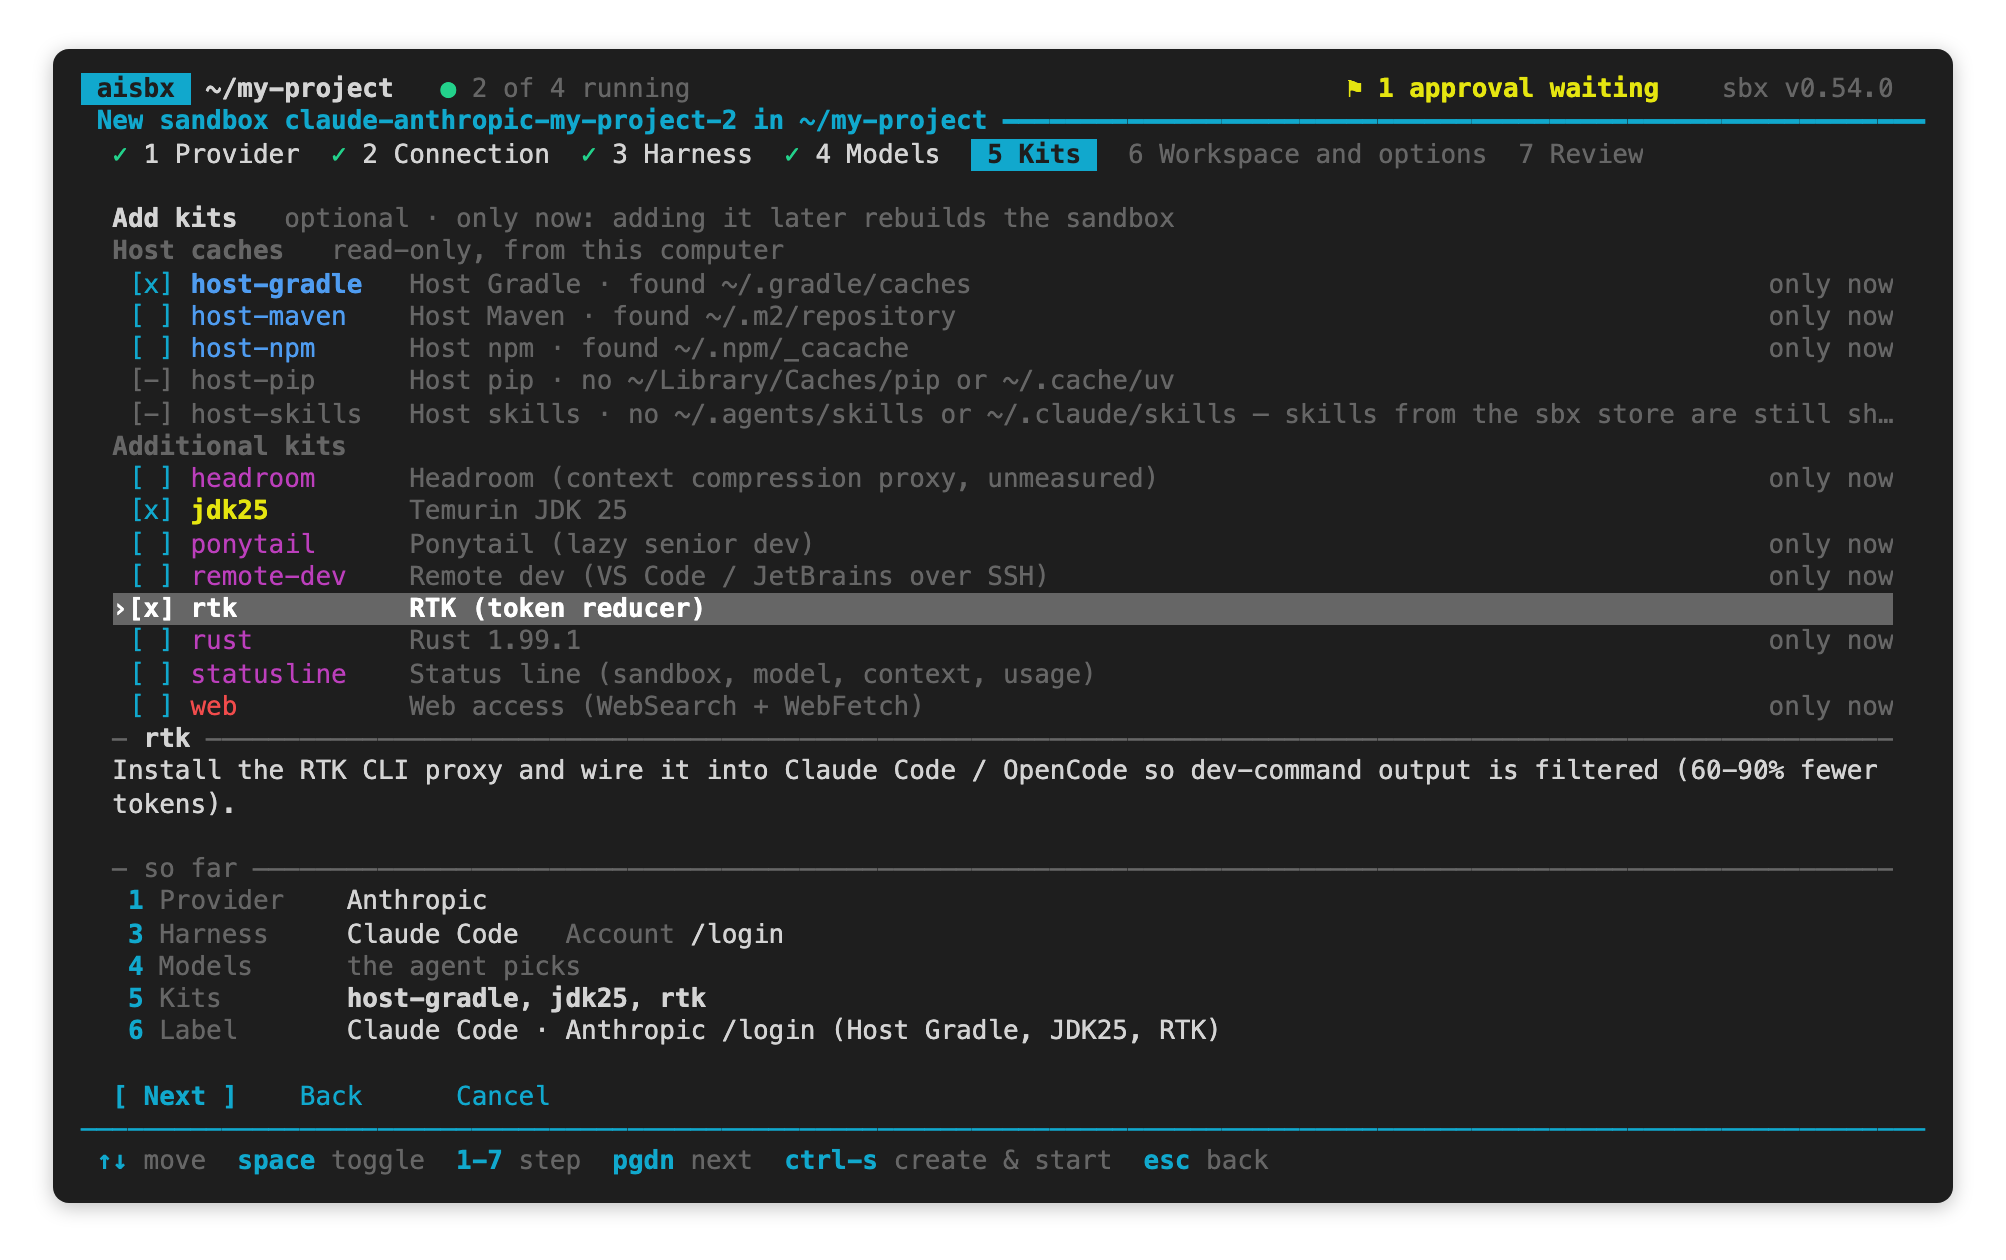
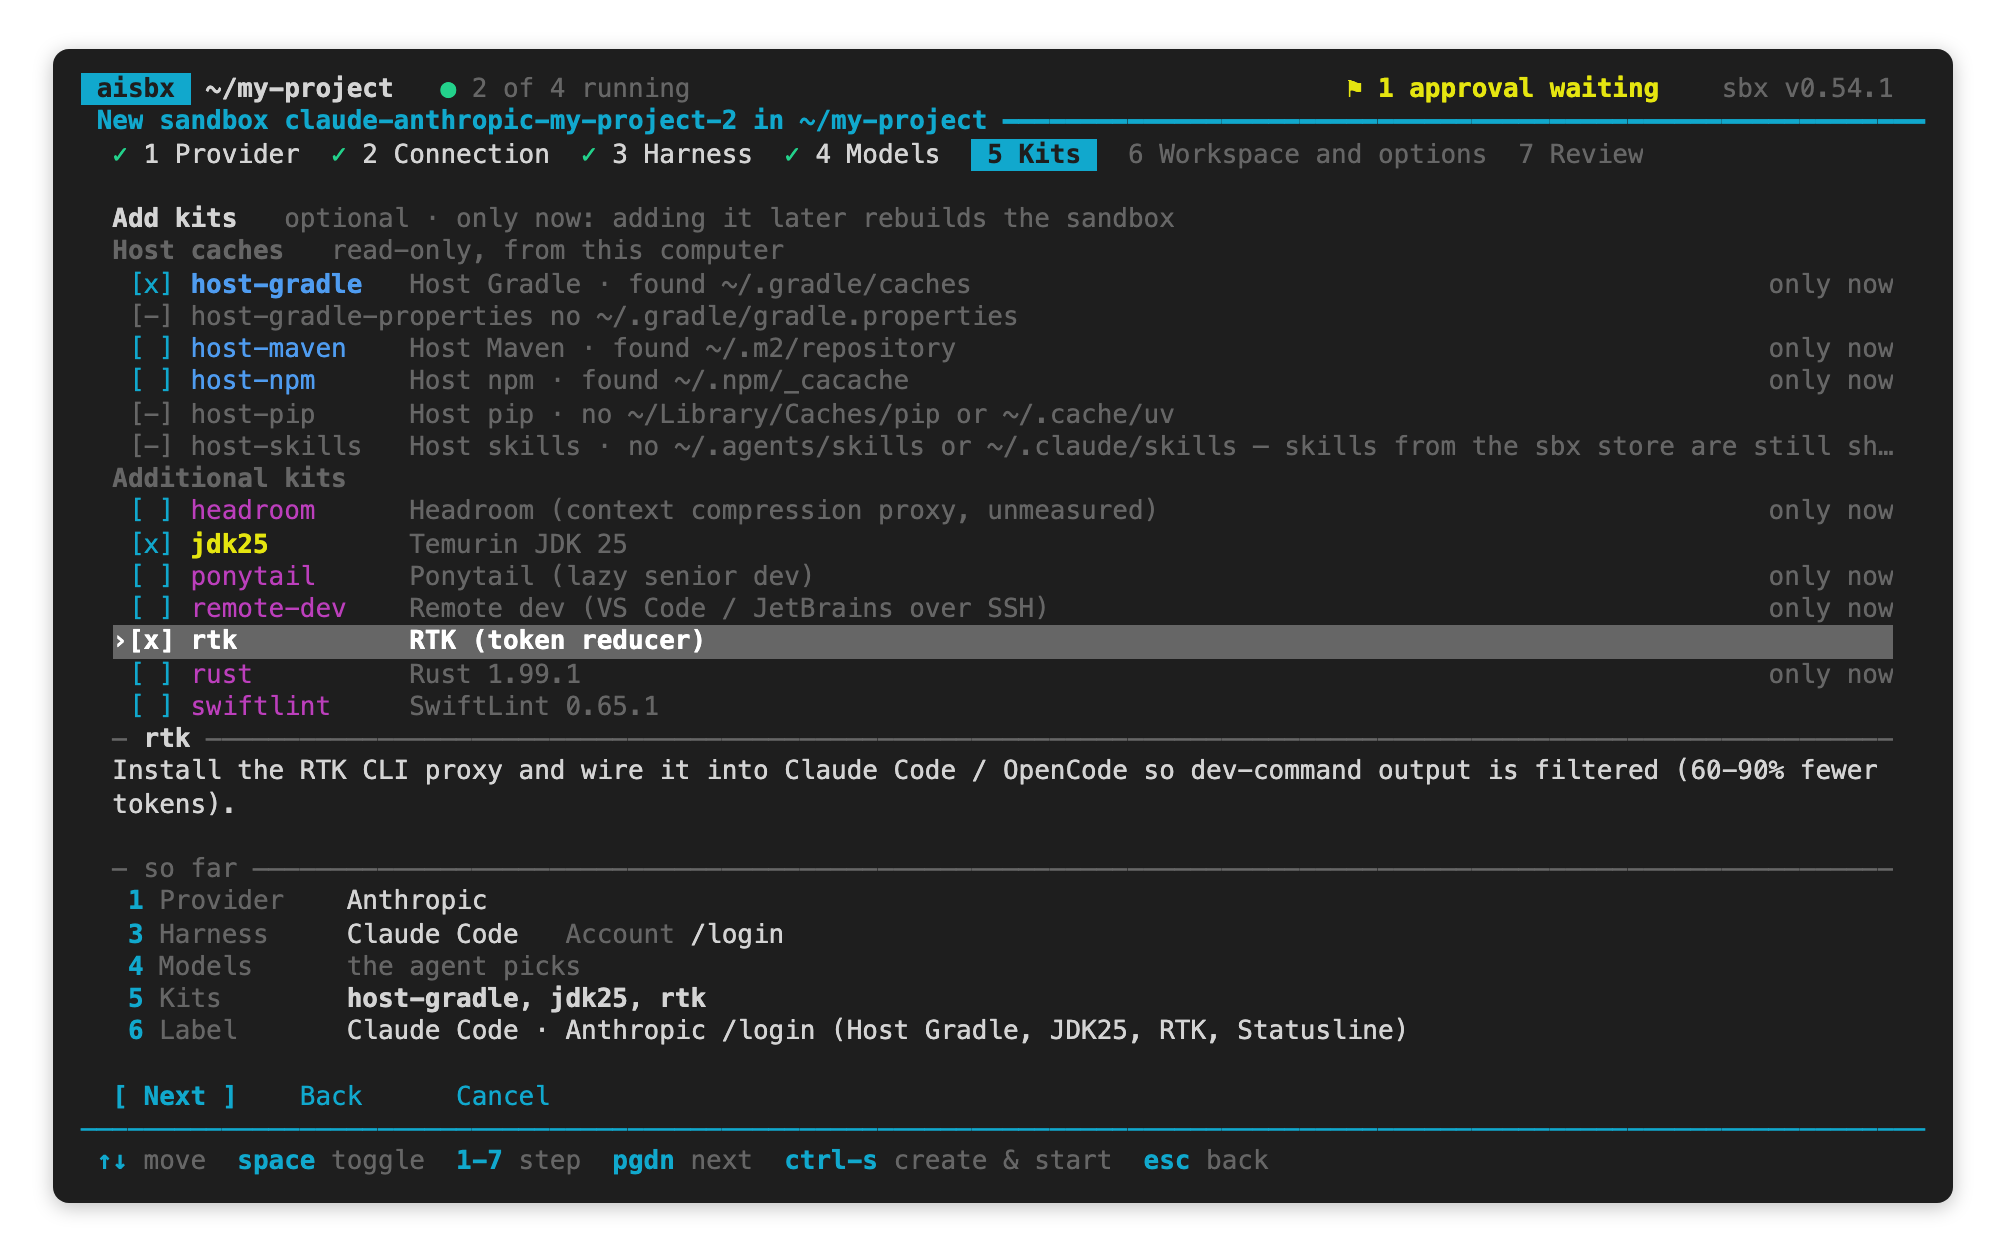
Upgrade aisbx to sbx 0.54.1: require sbx 0.54.1, drop the keychain -25244 hint because sbx now removes secrets that an older sbx saved, and retake the TUI screenshots. The deprecations page now says that aisbx moves to each new sbx release. (#41)

Changed region(s): [[0.0309, 0.2476, 0.9581, 0.5881], [0.6491, 0.2786, 0.9581, 0.4333], [0.6181, 0.8048, 0.7109, 0.8357]]

diff --git a/core/src/sbx.rs b/core/src/sbx.rs
@@ -12,7 +12,7 @@ use serde::{Deserialize, Serialize};
 use crate::state::Registry;
 
 /// The oldest sbx release the dashboard accepts. docs/development.md, *sbx version*, says why.
-pub const REQUIRED_VERSION: &str = "0.54.0";
+pub const REQUIRED_VERSION: &str = "0.54.1";
 
 /// How a sandbox mounts the host's shared agent-skills store (`--skills`). sbx reports the mode
 /// nowhere, so a rebuild repeats it from the registry; see [`crate::state::Entry`].
@@ -748,7 +748,7 @@ struct VersionClient {
     version: String,
 }
 
-/// The CLI's own version, `v0.53.0`, from `sbx version --json`.
+/// The CLI's own version, `v0.54.1`, from `sbx version --json`.
 pub fn version() -> Result<String> {
     let out = Command::new("sbx")
         .args(["version", "--json"])
@@ -3046,29 +3046,6 @@ pub fn secret_rm_litellm_key_argv(placeholder: &str) -> Vec<String> {
     ]
 }
 
-fn contains_standalone_25244(output: &str) -> bool {
-    const CODE: &str = "-25244";
-    output.match_indices(CODE).any(|(at, _)| {
-        let before = output[..at].chars().next_back();
-        let after = output[at + CODE.len()..].chars().next();
-        !before.is_some_and(|c| c.is_alphanumeric() || c == '-' || c == '_')
-            && !after.is_some_and(|c| c.is_ascii_digit())
-    })
-}
-
-pub fn secret_rm_keychain_owner_hint(output: &str) -> Option<&'static str> {
-    if contains_standalone_25244(output)
-        || output.contains("An invalid attempt to change the owner of an item")
-    {
-        Some(
-            "Cause: the macOS keychain item belongs to another owner or has another access setting, so sbx cannot delete it.\n\
-             Workaround: open Keychain Access and search for the item this command removes: the placeholder shown above for a token or a key, or the service name (and sandbox) in the command for a service secret. Delete that item, then close this log, or press F5 or Ctrl+R in Stored secrets, to refresh the list.",
-        )
-    } else {
-        None
-    }
-}
-
 /// Drop a named token from the host, and with it the account every sandbox pointed at that name
 /// was using. Only ever reached from the secrets screen: deleting a *sandbox* never touches a
 /// shared token.
@@ -3664,30 +3641,6 @@ mod tests {
     }
 
     #[test]
-    fn the_keychain_owner_error_gets_a_hint() {
-        let line =
-            "error: delete custom secret: An invalid attempt to change the owner of an item. (-25244)";
-        assert!(secret_rm_keychain_owner_hint(line).is_some());
-        assert!(secret_rm_keychain_owner_hint("failed (-25244)").is_some());
-        assert!(secret_rm_keychain_owner_hint("OSStatus: -25244").is_some());
-        assert!(secret_rm_keychain_owner_hint("-25244").is_some());
-        assert_eq!(
-            secret_rm_keychain_owner_hint("sbx-cs-aisbx-llm-conn-25244"),
-            None
-        );
-        assert_eq!(secret_rm_keychain_owner_hint("-252440"), None);
-        let message = "An invalid attempt to change the owner of an item";
-        assert!(secret_rm_keychain_owner_hint(message).is_some());
-        let hint = secret_rm_keychain_owner_hint(line).unwrap();
-        assert!(hint.contains("Keychain Access"), "{hint}");
-        assert!(hint.contains("service name"), "{hint}");
-        assert_eq!(secret_rm_keychain_owner_hint("error: no such secret"), None);
-        let table = "(global)   host   -   sbx-cs-aisbx-llm-conn-25244   key";
-        assert_eq!(secret_rm_keychain_owner_hint(table), None);
-        assert_eq!(secret_rm_keychain_owner_hint(""), None);
-    }
-
-    #[test]
     fn every_sbx_call_gets_no_telemetry_unless_a_value_is_set() {
         assert_eq!(NO_TELEMETRY_ENV, "SBX_NO_TELEMETRY");
         assert_eq!(no_telemetry_value(None), Some("1"));
@@ -4058,23 +4011,27 @@ mod tests {
 
     #[test]
     fn the_gate_names_the_version_it_refuses() {
-        assert_eq!(gate("v0.54.0".into()).unwrap(), "v0.54.0");
-        assert!(gate("v0.53.0".into()).is_err());
-        let err = gate("v0.53.0".into()).unwrap_err().to_string();
+        assert_eq!(gate("v0.54.1".into()).unwrap(), "v0.54.1");
+        assert!(gate("v0.54.0".into()).is_err());
+        let err = gate("v0.54.0".into()).unwrap_err().to_string();
         assert!(
-            err.starts_with("this sbx is v0.53.0, but this dashboard needs 0.54.0+ — "),
+            err.starts_with("this sbx is v0.54.0, but this dashboard needs 0.54.1+ — "),
             "{err}"
         );
     }
 
     #[test]
-    fn version_gate_accepts_0540_and_newer() {
-        assert!(meets_required_version("v0.54.0"));
-        assert!(meets_required_version("0.54.0"));
-        assert!(meets_required_version("v0.54.0-rc1"));
+    fn version_gate_accepts_0541_and_newer() {
         assert!(meets_required_version("v0.54.1"));
+        assert!(meets_required_version("0.54.1"));
+        assert!(meets_required_version("v0.54.1-rc1"));
+        assert!(meets_required_version("v0.54.2"));
         assert!(meets_required_version("v0.55.0"));
         assert!(meets_required_version("v1.0.0"));
+        assert!(!meets_required_version("v0.54.0"));
+        assert!(!meets_required_version("0.54.0"));
+        assert!(!meets_required_version("v0.54.0-rc1"));
+        assert!(!meets_required_version("v0.54"));
         assert!(!meets_required_version("v0.53.9"));
         assert!(!meets_required_version("v0.53.1"));
         assert!(!meets_required_version("v0.53.0"));

diff --git a/core/src/job.rs b/core/src/job.rs
@@ -185,7 +185,7 @@ impl Job {
                 records.lock().unwrap()[i].started = Some(Instant::now());
                 let failure = match run_step(&step, &records, i) {
                     Ok(exit) if exit.success() => None,
-                    Ok(exit) => Some(failure_text(&step, &records, i, exit)),
+                    Ok(exit) => Some(format!("{} failed ({})", step.label, exit_reason(exit))),
                     Err(e) => {
                         push(&records, i, format!("error: {e}"));
                         Some(e)
@@ -433,21 +433,6 @@ fn pump<R: Read>(reader: R, records: &Records, index: usize) {
     }
 }
 
-fn is_secret_rm(argv: &[String]) -> bool {
-    matches!(argv, [sbx, secret, rm, ..] if sbx == "sbx" && secret == "secret" && rm == "rm")
-}
-
-fn failure_text(step: &Step, records: &Records, index: usize, exit: ExitStatus) -> String {
-    if is_secret_rm(&step.argv) {
-        let mut guard = records.lock().unwrap();
-        let output = &mut guard[index].output;
-        if let Some(hint) = crate::sbx::secret_rm_keychain_owner_hint(&output.join("\n")) {
-            output.extend(hint.lines().map(String::from));
-        }
-    }
-    format!("{} failed ({})", step.label, exit_reason(exit))
-}
-
 fn push(records: &Records, index: usize, line: String) {
     let mut guard = records.lock().unwrap();
     let output = &mut guard[index].output;
@@ -523,83 +508,6 @@ mod tests {
             thread::sleep(Duration::from_millis(10));
         }
         panic!("the job did not finish");
-    }
-
-    const KEYCHAIN_LINE: &str =
-        "error: delete custom secret: An invalid attempt to change the owner of an item. (-25244)";
-
-    #[cfg(unix)]
-    fn failed_exit() -> ExitStatus {
-        Command::new("sh").args(["-c", "exit 1"]).status().unwrap()
-    }
-
-    #[cfg(unix)]
-    fn failure_of(argv: Vec<String>, output: &[&str], exit: ExitStatus) -> (String, Vec<String>) {
-        let step = Step::new("rm", argv);
-        let records: Records = Arc::new(Mutex::new(vec![Record::of(&step)]));
-        records.lock().unwrap()[0].output = output.iter().map(|l| l.to_string()).collect();
-        let text = failure_text(&step, &records, 0, exit);
-        let out = records.lock().unwrap()[0].output.clone();
-        (text, out)
-    }
-
-    #[test]
-    #[cfg(unix)]
-    fn a_failed_secret_rm_gets_the_hint_after_the_raw_lines_and_keeps_its_status() {
-        let placeholder = "sbx-cs-aisbx-llm-x";
-        let table = format!("(global)   host   -   {placeholder}   key");
-        let argv = crate::sbx::secret_rm_litellm_key_argv(placeholder);
-        let (text, out) = failure_of(argv, &[&table, KEYCHAIN_LINE], failed_exit());
-        assert_eq!(text, "rm failed (exit code 1)");
-        assert_eq!(out[0], table);
-        assert_eq!(out[1], KEYCHAIN_LINE);
-        assert!(out[2].starts_with("Cause:"), "{out:?}");
-        assert!(out.iter().any(|l| l.contains("Keychain Access")), "{out:?}");
-
-        let argv = crate::sbx::secret_rm_service_argv(Some("box"), "github");
-        let (text, out) = failure_of(argv, &[KEYCHAIN_LINE], failed_exit());
-        assert_eq!(text, "rm failed (exit code 1)");
-        assert_eq!(out[0], KEYCHAIN_LINE);
-        assert!(out[1].starts_with("Cause:"), "{out:?}");
-    }
-
-    #[test]
-    #[cfg(unix)]
-    fn no_hint_without_the_command_the_marker_or_a_failure() {
-        let argv = crate::sbx::secret_rm_litellm_key_argv("sbx-cs-aisbx-llm-x");
-        let (text, out) = failure_of(argv.clone(), &["error: other"], failed_exit());
-        assert_eq!((text.as_str(), out.len()), ("rm failed (exit code 1)", 1));
-        let table = "(global)   host   -   sbx-cs-aisbx-llm-x-25244   key";
-        let (_, out) = failure_of(argv, &[table, "error: other"], failed_exit());
-        assert_eq!(out.len(), 2);
-        let other: Vec<String> = ["sbx", "rm", "x"].map(String::from).to_vec();
-        let (text, out) = failure_of(other, &[KEYCHAIN_LINE], failed_exit());
-        assert_eq!((text.as_str(), out.len()), ("rm failed (exit code 1)", 1));
-        let (_, out) = failure_of(Vec::new(), &[KEYCHAIN_LINE], failed_exit());
-        assert_eq!(out.len(), 1);
-    }
-
-    #[test]
-    #[cfg(unix)]
-    fn the_hint_leaves_a_full_log_alone() {
-        let argv = crate::sbx::secret_rm_litellm_key_argv("sbx-cs-aisbx-llm-x");
-        let lines: Vec<String> = (0..4999).map(|i| format!("l{i}")).collect();
-        let mut raw: Vec<&str> = lines.iter().map(String::as_str).collect();
-        raw.push(KEYCHAIN_LINE);
-        let (_, out) = failure_of(argv, &raw, failed_exit());
-        assert_eq!(out[0], "l0");
-        assert_eq!(out[4999], KEYCHAIN_LINE);
-        assert!(out[5000].starts_with("Cause:"));
-    }
-
-    #[test]
-    #[cfg(unix)]
-    fn a_failed_step_keeps_its_status_text() {
-        let job = Job::spawn("t", vec![sh("rm", "echo '(-25244)' >&2; exit 1")]);
-        finish(&job);
-        let failed = Status::Failed("rm failed (exit code 1)".into());
-        assert_eq!(job.status(), failed);
-        assert!(!job.lines().iter().any(|l| l.contains("Keychain")));
     }
 
     #[test]

diff --git a/core/src/lib.rs b/core/src/lib.rs
@@ -42,7 +42,7 @@ pub mod testkit;
 pub mod tmpfs;
 pub mod tokens;
 
-/// The aisbx version: the sbx version it needs, then a counter (`0.53.0.0`). See docs/development.md,
+/// The aisbx version: the sbx version it needs, then a counter (`0.54.1.0`). See docs/development.md,
 /// *aisbx version*.
 pub fn version() -> String {
     env!("CARGO_PKG_VERSION").replacen('+', ".", 1)

diff --git a/docs/development.md b/docs/development.md
@@ -60,10 +60,12 @@ $ sh tests/step-test.sh                           # one live checks step; skips 
 
 ## sbx version
 
-The dashboard needs **sbx 0.54.0** or later and refuses an older sbx. The JSON it reads and every kit build are
-measured on sbx 0.54.0. The checks by hand in [On an upgrade](#on-an-upgrade) were last run on sbx 0.50. aisbx uses
+The dashboard needs **sbx 0.54.1** or later and refuses an older sbx. The JSON it reads and every kit build are
+measured on sbx 0.54.1. The checks by hand in [On an upgrade](#on-an-upgrade) were last run on sbx 0.50. aisbx uses
 these sbx features, which older releases lack:
 
+- On macOS, `sbx secret rm` removes a secret that an older sbx saved, with its Keychain item. Deleting a stored
+  secret, a connection or a named token relies on it.
 - `sbx port ls`, `sbx port publish` and `sbx port unpublish` read and change the published ports. The Ports tab, `p`
   and `u` use them. sbx deprecates the older `sbx ports`.
 - `sbx inspect` reports the mode of a sandbox's MCP gateway and the servers it has loaded. The details pane shows
@@ -99,11 +101,11 @@ check that the daemon socket belongs to the same user.
 
 ### aisbx version
 
-The aisbx version is the sbx version it needs plus a counter: aisbx **0.54.0.0** needs sbx 0.54.0. Count the last
+The aisbx version is the sbx version it needs plus a counter: aisbx **0.54.1.0** needs sbx 0.54.1. Count the last
 number up for each aisbx release on the same sbx version. Set it back to 0 when aisbx moves to a newer sbx.
 
-Cargo accepts only three numbers, so the root `Cargo.toml` writes 0.54.0.0 as `version = "0.54.0+0"`.
-`aisbx --version` and `aisbx-ui --version` print 0.54.0.0. A test in `core/src/lib.rs` fails when the first three
+Cargo accepts only three numbers, so the root `Cargo.toml` writes 0.54.1.0 as `version = "0.54.1+0"`.
+`aisbx --version` and `aisbx-ui --version` print 0.54.1.0. A test in `core/src/lib.rs` fails when the first three
 numbers differ from `sbx::REQUIRED_VERSION`.
 
 ### Rules for sbx calls
@@ -159,9 +161,9 @@ platform on the GitHub release page.
 
    ```console
    $ python3 scripts/package.py version
-   0.54.0.0
-   $ git tag v0.54.0.0
-   $ git push origin v0.54.0.0
+   0.54.1.0
+   $ git tag v0.54.1.0
+   $ git push origin v0.54.1.0
    ```
 
 3. The workflow stops when the tag is not `v` plus the `Cargo.toml` version. Otherwise it makes a draft

diff --git a/README.md b/README.md
@@ -2,7 +2,7 @@
 
 [![CI](https://github.com/ilja82/aisbx/actions/workflows/ci.yml/badge.svg)](https://github.com/ilja82/aisbx/actions/workflows/ci.yml)
 [![License: MIT](https://img.shields.io/badge/license-MIT-blue)](LICENSE)
-[![sbx 0.54.0 or later](https://img.shields.io/badge/sbx-0.54.0%2B-2496ED)](https://docs.docker.com/ai/sandboxes/)
+[![sbx 0.54.1 or later](https://img.shields.io/badge/sbx-0.54.1%2B-2496ED)](https://docs.docker.com/ai/sandboxes/)
 ![Platforms: macOS, Linux, Windows](https://img.shields.io/badge/platform-macOS%20%7C%20Linux%20%7C%20Windows-lightgrey)
 
 aisbx is a wrapper around [Docker Sandboxes](https://docs.docker.com/ai/sandboxes/) (`sbx`). sbx runs AI
@@ -75,7 +75,7 @@ aisbx builds on these sbx features. It does not replace them.
 
 ## Requirements
 
-- [sbx](https://docs.docker.com/ai/sandboxes/) **0.54.0** or later, signed in to Docker
+- [sbx](https://docs.docker.com/ai/sandboxes/) **0.54.1** or later, signed in to Docker
   ([Install](#1-install-sbx)). The dashboard refuses an older version ([why](docs/development.md#sbx-version)).
 - Docker with Buildx on the host. sbx uses it to build the image of each kit.
 - To build from source only: a Rust toolchain. The launcher builds aisbx with it. `aisbx-ui` needs Rust 1.95 or
@@ -87,7 +87,7 @@ Install sbx, sign in to Docker, set the network policy, then install aisbx.
 
 ### 1. Install sbx
 
-Install the `sbx` CLI from Docker. Check it with `sbx version`: aisbx needs 0.54.0 or later.
+Install the `sbx` CLI from Docker. Check it with `sbx version`: aisbx needs 0.54.1 or later.
 
 | Platform      | Command                                                         |
 |---------------|-----------------------------------------------------------------|

diff --git a/docs/deprecations.md b/docs/deprecations.md
@@ -36,10 +36,12 @@ dynamic mode. A create with neither flag prints one note on stderr; stdout does 
 ## Breaking changes
 
 A break comes from an sbx release that removed what aisbx needs, where no aisbx change can keep the old behavior, or
-from a decision of aisbx, named as such.
+from a decision of aisbx, named as such. aisbx also moves to each new sbx release: the first aisbx release on it
+refuses an older sbx, and a row names that sbx release.
 
 | Break | sbx version | Your step |
 | --- | --- | --- |
+| aisbx 0.54.1.0 needs sbx 0.54.1 or later and refuses an older sbx. | 0.54.1 | Upgrade sbx to 0.54.1 or later, then check it with `sbx version`. |
 | aisbx 0.54.0.0 switches every skill of the sbx skills store off, also the skills already in it: a sandbox gets a store skill only when you switch it on. Before, every sharing sandbox got every store skill. This is a decision of aisbx, not of sbx. | none (aisbx) | Press `K` and switch on the skills every sandbox should get, or press `i` on a sandbox to switch skills on for it alone ([Switches](skills.md#switches)). `aisbx skills on --global SKILL` does the same in a script. |
 | aisbx 0.54.0.0 needs sbx 0.54.0 or later and refuses an older sbx. | 0.54.0 | Upgrade sbx to 0.54.0 or later, then check it with `sbx version`. |
 | aisbx 0.53.0.0 needs sbx 0.53.0 or later and refuses an older sbx. | 0.53.0 | Upgrade sbx to 0.53.0 or later, then check it with `sbx version`. |

diff --git a/docs/accounts.md b/docs/accounts.md
@@ -125,12 +125,6 @@ Press `↵` to store or replace a value. Press `d` to delete one; aisbx first sa
   [Antigravity](agents.md#antigravity-agy)).
 - **`mcp:` secrets** belong to the [MCP gateway](sandboxes.md#mcp-servers) and never enter a sandbox. Restart the
   sandbox after you change one. aisbx flags a row in an old spelling with the command that fixes it.
-- **Delete fails with `-25244`:** on macOS, sbx can fail with `An invalid attempt to change the owner of an item.
-  (-25244)`: the keychain item belongs to another owner or has another access setting. The job log then adds the
-  cause and a workaround below sbx's own lines: open Keychain Access, search for the placeholder the log shows (for a
-  service secret, the service name and sandbox of the command), delete the item, then close the log, or press `F5` or
-  `Ctrl+R` in Stored secrets, to refresh the list. aisbx does not touch the keychain itself. Headless
-  `aisbx litellm rm` passes sbx's raw error through on stderr and reports its own failure, without this hint.
 - A token of a deleted sandbox is flagged for `d`. aisbx lists custom secrets of other tools and leaves them alone.
 
 ### LiteLLM connection rows

diff --git a/docs/dashboard.md b/docs/dashboard.md
@@ -101,7 +101,7 @@ This text version shows more row states: a setup token, a LiteLLM connection, an
 foreign kit.
 
 ```text
- aisbx  ~/my-project   ● 2 of 4 running                    ⚑ 1 approval waiting    sbx v0.54.0
+ aisbx  ~/my-project   ● 2 of 4 running                    ⚑ 1 approval waiting    sbx v0.54.1
  Sandboxes ━━━━━━━━━━━━━━━━━━━━━━━━━━━━━━━━━━━━━━━━━━━━━━━━━━━━━━━━━━━━━━━━━━━━━━━━━━━━━━━━━━━━━
   This folder  ~/my-project   2 sandboxes ───────────────────────────────────────────────────
   ▌● My private Claude Code              Claude Code · token private  running · 1 session
